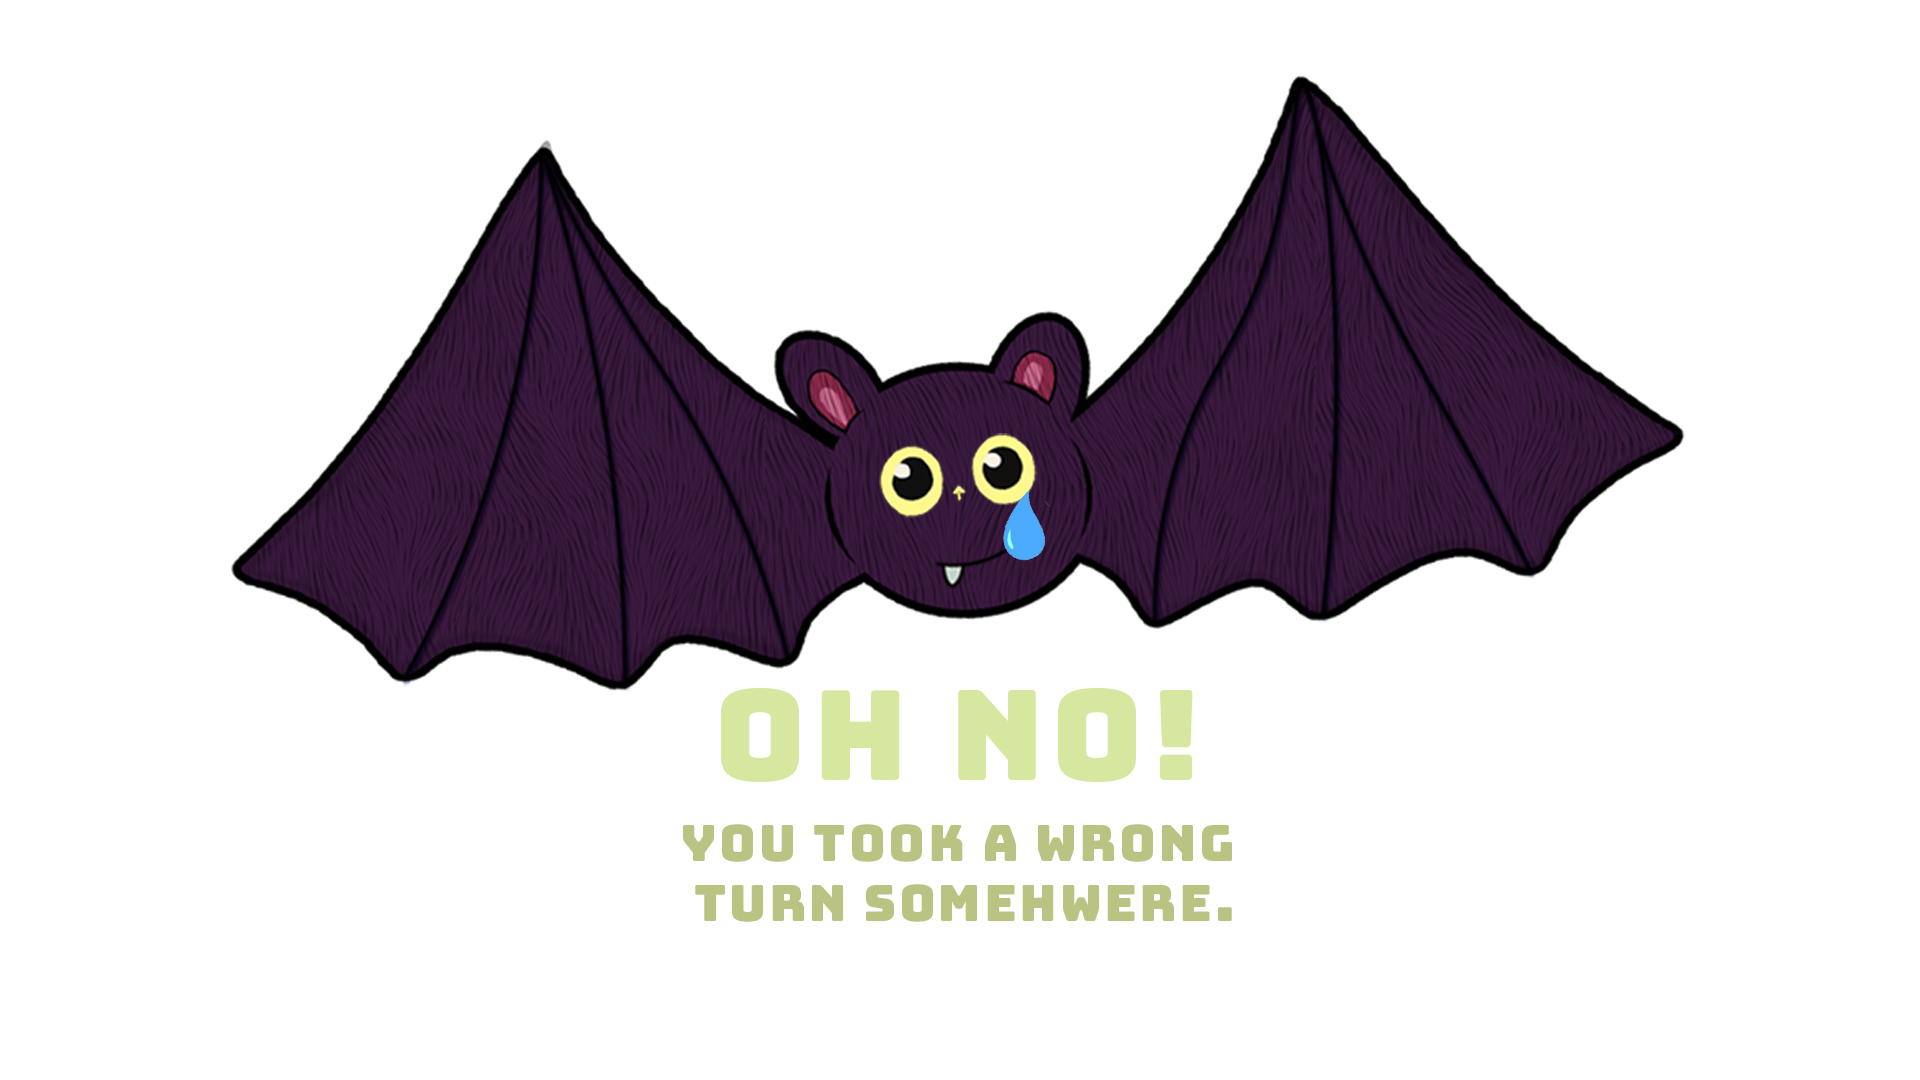
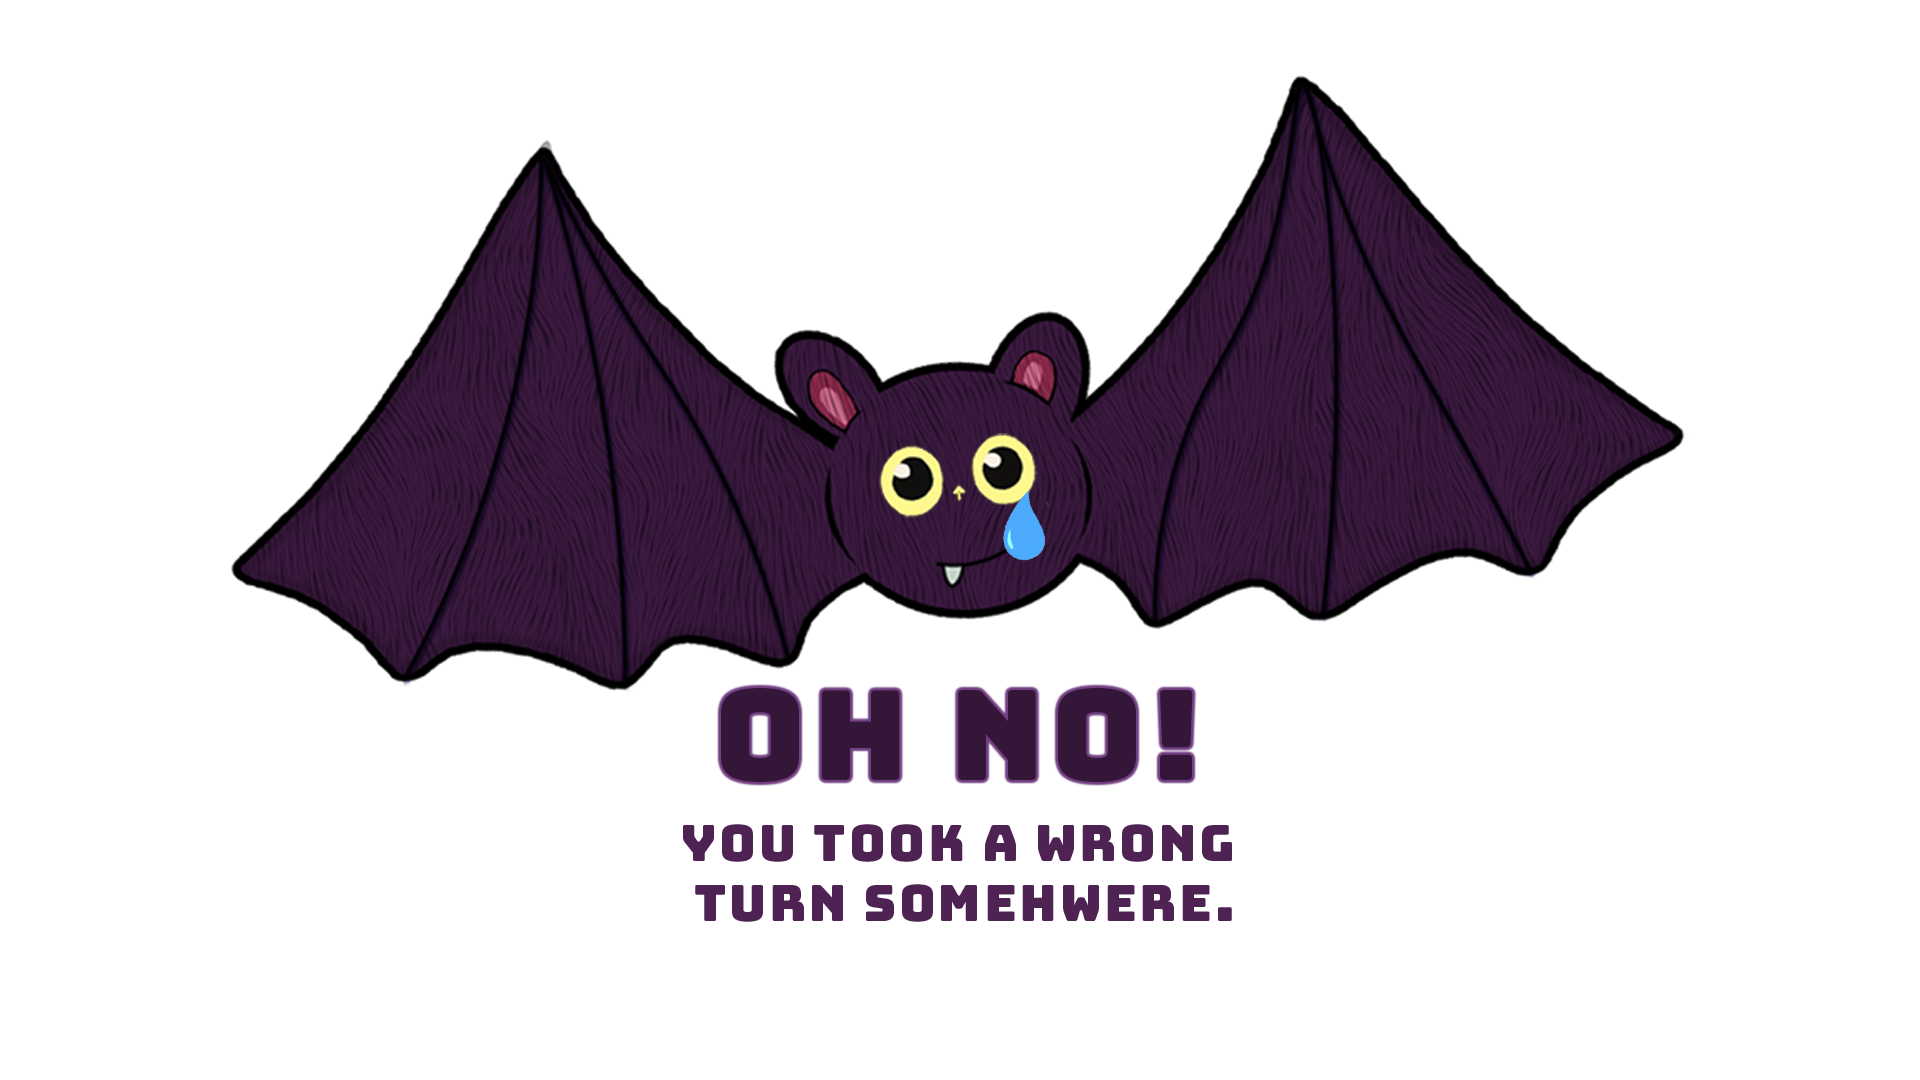
Updated styles for Quiz page and error page.

Changed region(s): [[0.375, 0.6111, 0.625, 0.7333], [0.3438, 0.7639, 0.6562, 0.8556]]

diff --git a/client/src/styles/main.css b/client/src/styles/main.css
@@ -108,7 +108,7 @@ html, body {
   }
   
   .splash-page img {
-    max-width: 100%;
+    max-width: 80%;
     margin-bottom: 20px;
   }
   
@@ -191,8 +191,6 @@ html, body {
   /* Home page styles */
   .home-page {
     width: 100%;
-    max-width: 1200px;
-    min-height: 100vh;
     display: flex;
     flex-direction: column;
     justify-content: center;
@@ -204,25 +202,25 @@ html, body {
   }
   
   .home-page h1 {
-    font-size: 2em;
+    font-size: 40pt;
     color: #3c1b43;
     margin-bottom: 10px;
   }
   
   .home-page img {
-    max-width: 200%;
-    margin-bottom: 20px;
+    max-width: 80%;
+    margin-bottom: 0px;
   }
   
   .home-page h2 {
-    font-size: 2em;
+    font-size: 25pt;
     color: #501537;
-    margin-bottom: 10px;
+    margin-bottom: 0px;
   }
   
   .home-page .paragraph-container {
     margin-bottom: 20px;
-    max-width: 800px;
+    max-width: 500px;
     padding: 0 20px;
     box-sizing: border-box;
   }
@@ -232,9 +230,9 @@ html, body {
     font-size: 1em;
     color: #501537;
     background-color: rgba(255, 255, 255, 0.8);
-    padding: 10px;
+    padding: 0px;
     border-radius: 4px;
-    max-width: 80%;
+    max-width: 90%;
     margin: 0 auto;
   }
   
@@ -331,18 +329,20 @@ html, body {
   
   /* Quiz page styles */
   .quiz-page {
-    background-color: #C3D2C7;
-    background-image: url('/src/assets/Grey_Brick_Background.png');
-    background-size: cover;
-    background-repeat: no-repeat;
-    background-blend-mode: overlay;
-    text-align: center;
+    width: 100%;
     display: flex;
     flex-direction: column;
-    justify-content: space-between;
+    justify-content: center;
+    align-items: center;
+    text-align: center;
     color: #501537;
-    width: 100vw;
-    height: 100vh;
+    padding: 20px;
+    box-sizing: border-box;
+  }
+
+  .quiz-page img {
+    max-width: 100%;
+    margin-bottom: 0px;
   }
   
   .start-quiz-container {
@@ -369,9 +369,8 @@ html, body {
     display: flex;
     justify-content: center;
     align-items: center;
-    width: 250%;
+    width: 100%;
     height: 100vh;
-    background-color: #4a594b;
   }
   
   .error-content {
@@ -379,20 +378,20 @@ html, body {
   }
   
   .error-logo {
-    width: 700px;
+    width: 1500px;
     height: auto;
     margin-bottom: 20px;
   }
   
   .error-text {
-    font-size: 24px;
-    color: #D4e79e;
+    font-size: 50px;
+    color: #501537;
     margin-bottom: 10px;
   }
   
   .error-message {
-    font-size: 18px;
-    color: #D4e79e;
+    font-size: 25px;
+    color: #501537;
   }
   
   /* Media queries */

diff --git a/client/src/pages/QuizPage.jsx b/client/src/pages/QuizPage.jsx
@@ -15,7 +15,7 @@ export default function QuizPage() {
   return (
     <div className="quiz-page">
       <h1>Welcome to The Knowledge Crypt:</h1>
-      <img src="src/assets/LD_Logo_1000px.png" alt="logo" className="logo" />
+      <img src="src/assets/LD_Logo_600px.png" alt="logo" className="logo" />
 
       <h2>Test Your Language Skills</h2>
       <div className="paragraph-container">
@@ -26,6 +26,8 @@ export default function QuizPage() {
           </span>
         </p>
       </div>
+
+      
       <QuizContainer />
       <div className="start-quiz-container">
         <button onClick={handleStartQuizClick}>Start Quiz</button>
